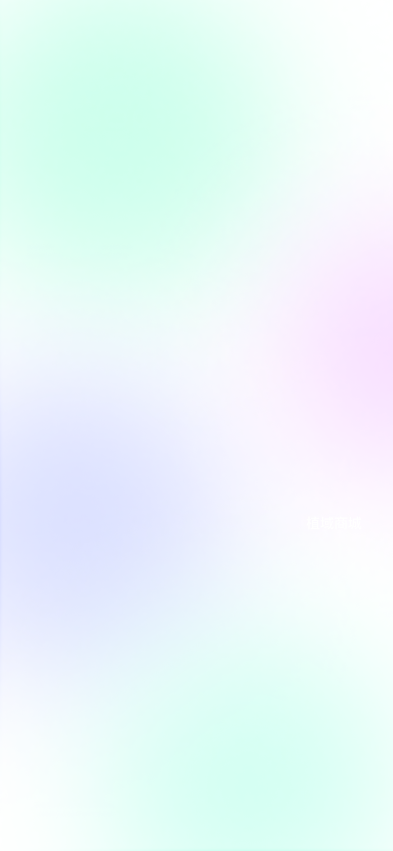
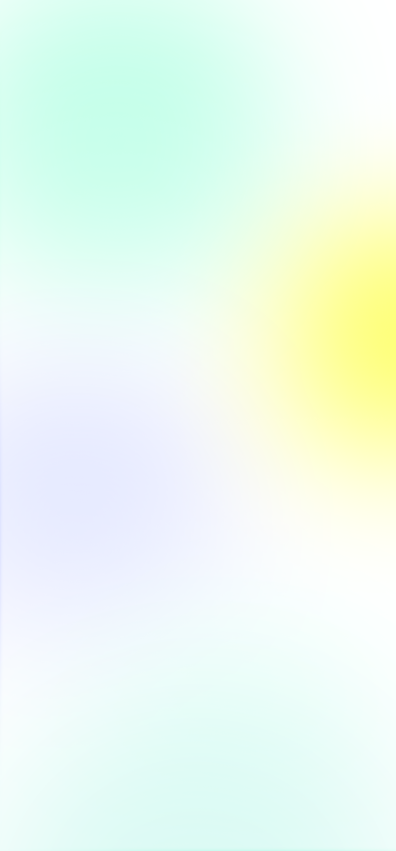
FIX：修复页面样式

Changed region(s): [[0.5802, 0.1833, 1.0, 0.611]]

diff --git a/lib/pages/ar_explore_page.dart b/lib/pages/ar_explore_page.dart
@@ -10,12 +10,16 @@ class ARExplorePage extends StatelessWidget {
   Widget build(BuildContext context) {
     return Scaffold(
       body: Container(
-        decoration: const BoxDecoration(
-          gradient: LinearGradient(
-            begin: Alignment.topCenter,
-            end: Alignment.bottomCenter,
-            colors: [Color(0xFFE8F8F3), Color(0xFFFFFFFF)],
+              decoration: const BoxDecoration(
+          image: DecorationImage(
+            image: AssetImage('assets/images/main_bg.png'),
+            fit: BoxFit.cover,
           ),
+          // gradient: LinearGradient(
+          //   begin: Alignment.topLeft,
+          //   end: Alignment.bottomRight,
+          //   colors: [Color(0xFFD9F8E7), Color(0xFFF9F7FE)],
+          // ),
         ),
         child: SingleChildScrollView(
           padding: const EdgeInsets.symmetric(horizontal: 16, vertical: 24),
@@ -133,27 +137,27 @@ class ARExplorePage extends StatelessWidget {
                 children: [
                   Expanded(
                     child: _buildTaskCard(
-                      imagePath: 'assets/images/explore_btn_bg.png',
+                      imagePath: 'assets/images/explore_todo_bg.png',
                       title: '计划任务',
-                      iconPath: 'assets/images/explore_todo.png',
+                      // iconPath: 'assets/images/explore_todo.png',
                       // count: 8,
                     ),
                   ),
                   const SizedBox(width: 12),
                   Expanded(
                     child: _buildTaskCard(
-                      imagePath: 'assets/images/explore_btn_bg.png',
+                      imagePath: 'assets/images/explore_nearby_bg.png',
                       title: '附近推荐任务',
-                      iconPath: 'assets/images/explore_nearby.png',
+                      // iconPath: 'assets/images/explore_nearby.png',
                       // count: 12,
                     ),
                   ),
                   const SizedBox(width: 12),
                   Expanded(
                     child: _buildTaskCard(
-                      imagePath: 'assets/images/explore_btn_bg.png',
+                      imagePath: 'assets/images/explore_invited_bg.png',
                       title: '受邀任务',
-                      iconPath: 'assets/images/explore_invited.png',
+                      // iconPath: 'assets/images/explore_invited.png',
                       // count: 3,
                     ),
                   ),
@@ -201,7 +205,7 @@ class ARExplorePage extends StatelessWidget {
             bottom: 0,
             left: 0,
             right: 0,
-            height: 70, // 覆盖下半部分
+            height: 38, // 覆盖下半部分
             child: Container(
               decoration: BoxDecoration(
                 borderRadius: const BorderRadius.vertical(
@@ -211,8 +215,8 @@ class ARExplorePage extends StatelessWidget {
                   begin: Alignment.topCenter,
                   end: Alignment.bottomCenter,
                   colors: [
-                    Colors.blue.withOpacity(0.0), // 顶部透明
-                    Colors.blue.withOpacity(0.7), // 底部70%透明度
+                    const Color(0xFF46D7E7).withOpacity(0.85), 
+                 const Color(0xFF46D7E7).withOpacity(0.85), 
                   ],
                 ),
               ),
@@ -269,13 +273,13 @@ class ARExplorePage extends StatelessWidget {
             child: Padding(
               padding: const EdgeInsets.all(12.0),
               child: Column(
-                crossAxisAlignment: CrossAxisAlignment.start,
+                crossAxisAlignment: CrossAxisAlignment.center,
                 children: [
                   Text(
                     title,
                     style: const TextStyle(
                       fontSize: 14,
-                      fontWeight: FontWeight.w600,
+                      // fontWeight: FontWeight.w600,
                       color: Colors.white,
                     ),
                   ),
@@ -318,82 +322,93 @@ class ARExplorePage extends StatelessWidget {
   Widget _buildTaskCard({
     required String imagePath,
     required String title,
-    required String iconPath,
+    // required String iconPath,
     // required int count,
   }) {
-    return Container(
-      height: 167,
-      decoration: BoxDecoration(
-        borderRadius: BorderRadius.circular(12),
-        // boxShadow: [
-        //   BoxShadow(
-        //     color: Colors.grey.withOpacity(0.1),
-        //     blurRadius: 4,
-        //     offset: const Offset(0, 2),
-        //   ),
-        // ],
-      ),
-      child: Stack(
-        children: [
-          // 底图
-          Positioned.fill(
-            child: ClipRRect(
-              borderRadius: BorderRadius.circular(12),
-              child: Image.asset(imagePath, fit: BoxFit.cover),
-            ),
-          ),
-
-          // 内容
-          Positioned.fill(
-            child: Padding(
-              padding: const EdgeInsets.all(12.0),
-              child: Column(
-                mainAxisAlignment: MainAxisAlignment.end,
-                crossAxisAlignment: CrossAxisAlignment.start,
-                children: [
-                  // 图标
-                  Container(
-                    width: 24,
-                    height: 24,
-                    decoration: const BoxDecoration(
-                      shape: BoxShape.circle,
-                      color: Colors.white,
-                    ),
-                    child: Center(
-                      child: Image.asset(iconPath, width: 16, height: 16),
-                    ),
-                  ),
-                  const SizedBox(height: 8),
-                  // 标题
-                  Text(
-                    title,
-                    style: const TextStyle(
-                      fontSize: 14,
-                      fontWeight: FontWeight.w600,
-                      color: Colors.white,
-                    ),
-                  ),
-                  const SizedBox(height: 4),
-                  // 任务数量
-                  // Container(
-                  //   padding: const EdgeInsets.symmetric(
-                  //     horizontal: 8,
-                  //     vertical: 2,
-                  //   ),
-                  //   decoration: BoxDecoration(
-                  //     color: Colors.white.withOpacity(0.2),
-                  //     borderRadius: BorderRadius.circular(12),
-                  //   ),
-                  //   child: Text(
-                  //     '$count个任务',
-                  //     style: const TextStyle(fontSize: 10, color: Colors.white),
-                  //   ),
-                  // ),
-                ],
+    return GestureDetector(
+      onTap: () {
+        if (title == '计划任务') {
+          print('点击了$title');
+        } else if (title == '附近推荐任务') {
+          print('点击了$title');
+        } else if (title == '受邀任务') {
+          print('点击了$title');
+        }
+      },
+      child: Container(
+        height: 167,
+        decoration: BoxDecoration(
+          borderRadius: BorderRadius.circular(12),
+          // boxShadow: [
+          //   BoxShadow(
+          //     color: Colors.grey.withOpacity(0.1),
+          //     blurRadius: 4,
+          //     offset: const Offset(0, 2),
+          //   ),
+          // ],
+        ),
+        child: Stack(
+          children: [
+            // 底图
+            Positioned.fill(
+              child: ClipRRect(
+                borderRadius: BorderRadius.circular(12),
+                child: Image.asset(imagePath, fit: BoxFit.cover),
               ),
             ),
-          ),
-        ],
+
+            // 内容
+            Positioned.fill(
+              child: Padding(
+                padding: const EdgeInsets.all(12.0),
+                child: Column(
+                  mainAxisAlignment: MainAxisAlignment.end,
+                  crossAxisAlignment: CrossAxisAlignment.center,
+                  children: [
+                    // 图标
+                    // Container(
+                    //   width: 24,
+                    //   height: 24,
+                    //   decoration: const BoxDecoration(
+                    //     shape: BoxShape.circle,
+                    //     color: Colors.white,
+                    //   ),
+                    //   child: Center(
+                    //     child: Image.asset(iconPath, width: 16, height: 16),
+                    //   ),
+                    // ),
+                    const SizedBox(height: 10),
+                    // 标题
+                    Text(
+                      title,
+                      style: const TextStyle(
+                        fontSize: 14,
+                        // fontWeight: FontWeight.w600,
+                        color: Colors.white,
+                      ),
+                    ),
+                    const SizedBox(height: 4),
+                    // 任务数量
+                    // Container(
+                    //   padding: const EdgeInsets.symmetric(
+                    //     horizontal: 8,
+                    //     vertical: 2,
+                    //   ),
+                    //   decoration: BoxDecoration(
+                    //     color: Colors.white.withOpacity(0.2),
+                    //     borderRadius: BorderRadius.circular(12),
+                    //   ),
+                    //   child: Text(
+                    //     '$count个任务',
+                    //     style: const TextStyle(fontSize: 10, color: Colors.white),
+                    //   ),
+                    // ),
+                  ],
+                ),
+              ),
+            ),
+          ],
+        ),
       ),
     );
   }

diff --git a/lib/main.dart b/lib/main.dart
@@ -14,7 +14,7 @@ class MyApp extends StatelessWidget {
   @override
   Widget build(BuildContext context) {
     return MaterialApp(
-      title: '植物探索',
+      title: '植域',
       theme: ThemeData(
         primarySwatch: Colors.green,
         visualDensity: VisualDensity.adaptivePlatformDensity,
@@ -47,7 +47,7 @@ class _TabNavigatorState extends State<TabNavigator> {
       body: _pages[_selectedIndex],
       extendBody: true, // 让内容延伸到底部导航栏下方
       bottomNavigationBar: Container(
-        height: 74,
+        height: 120,
         decoration: const BoxDecoration(
           color: Colors.transparent, // 透明背景
         ),
@@ -117,15 +117,13 @@ class _TabNavigatorState extends State<TabNavigator> {
     bool isSpecial = false,
   }) {
     final isSelected = _selectedIndex == index;
-    final double iconSize = isSelected ? 64 : 48;
-    final double verticalOffset = isSelected ? 0 : 4; // 未选中时向上偏移4px，确保底部对齐
+    final double iconSize = isSelected ? 74 : 48;
+    // final double verticalOffset = isSelected ? 0 : 4;
 
     return GestureDetector(
       onTap: () {
         if (isSpecial) {
-          ScaffoldMessenger.of(
-            context,
-          ).showSnackBar(const SnackBar(content: Text('点击了中间按钮')));
+          ScaffoldMessenger.of(context).showSnackBar(const SnackBar(content: Text('点击了中间按钮')));
         } else {
           setState(() => _selectedIndex = index);
         }
@@ -133,33 +131,22 @@ class _TabNavigatorState extends State<TabNavigator> {
       child: Column(
         mainAxisSize: MainAxisSize.min,
         children: [
-          // 使用Padding控制垂直位置，确保底部对齐
-          Padding(
-            padding: EdgeInsets.only(bottom: verticalOffset),
-            child: Container(
-              width: isSpecial ? 60 : iconSize,
-              height: isSpecial ? 60 : iconSize,
-              decoration: isSpecial
-                  ? BoxDecoration(color: Colors.green, shape: BoxShape.circle)
-                  : null,
-              child: Center(
-                child: Image.asset(
-                  isSelected ? activeIconPath : iconPath,
-                  width: isSpecial ? 32 : iconSize,
-                  height: isSpecial ? 32 : iconSize,
-                  color: isSpecial ? Colors.white : null,
-                ),
+          // 移除Padding并直接使用Container
+          Container(
+            width: isSpecial ? 60 : iconSize,
+            height: isSpecial ? 60 : iconSize,
+            decoration: isSpecial
+                ? BoxDecoration(color: Colors.green, shape: BoxShape.circle)
+                : null,
+            child: Center(
+              child: Image.asset(
+                isSelected ? activeIconPath : iconPath,
+                width: isSpecial ? 32 : iconSize,
+                height: isSpecial ? 32 : iconSize,
+                color: isSpecial ? Colors.white : null,
               ),
             ),
           ),
-          // if (!isSpecial)
-          //   Text(
-          //     label,
-          //     style: TextStyle(
-          //       fontSize: 12,
-          //       color: isSelected ? Colors.green : Colors.grey,
-          //     ),
-          //   ),
         ],
       ),
     );
